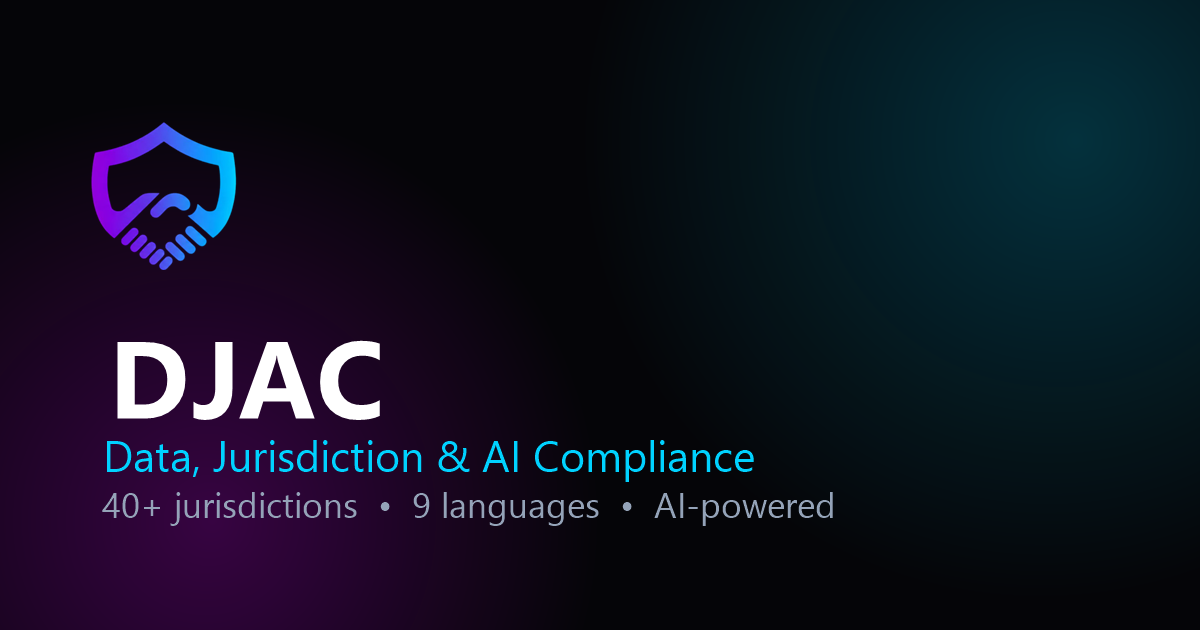
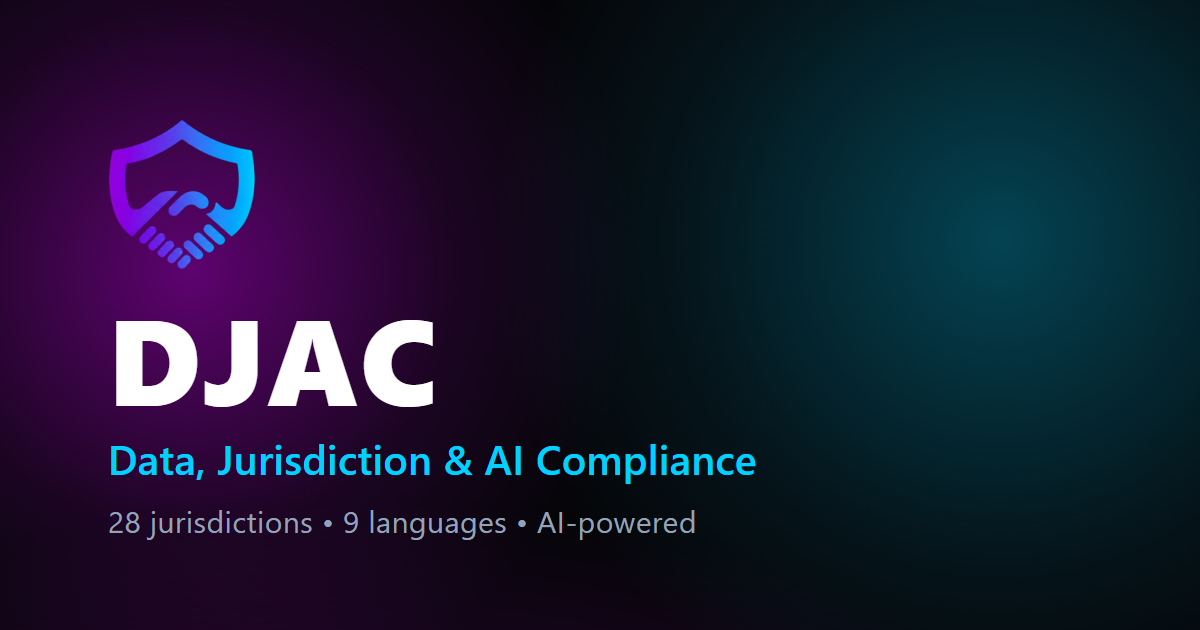
fix(brand+ci): regenerate OG image (28 jurisdictions); fix lint/test OOM crashes

diff --git a/vitest.config.ts b/vitest.config.ts
@@ -12,6 +12,12 @@ export default defineConfig({
       "client/src/**/*.spec.ts",
     ],
     pool: "forks",
+    // Bound worker forks. Vitest 4 defaults to (CPU cores - 1) workers; on a
+    // 24-core host that spawns ~23 V8 isolates which collectively exhaust the
+    // heap and intermittently fail the pre-commit hook with
+    // "FATAL ERROR: ... JavaScript heap out of memory".
+    minWorkers: 1,
+    maxWorkers: 6,
     coverage: {
       provider: "v8",
       reporter: ["text", "text-summary", "lcov"],
